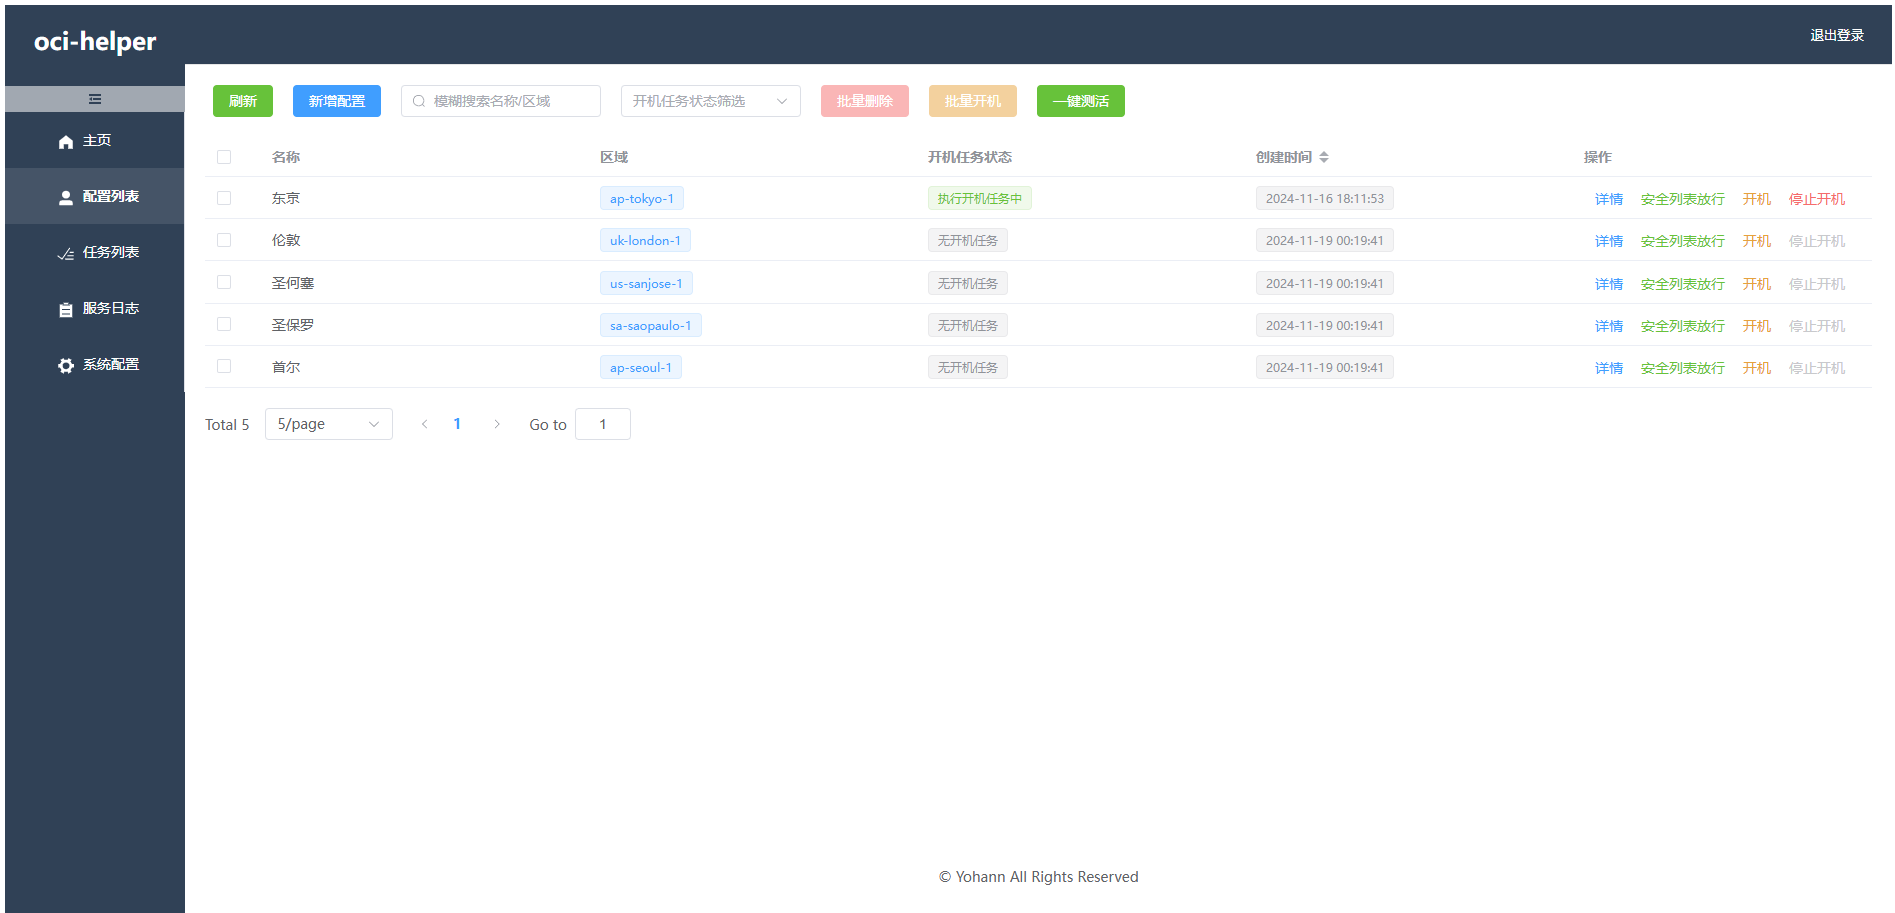
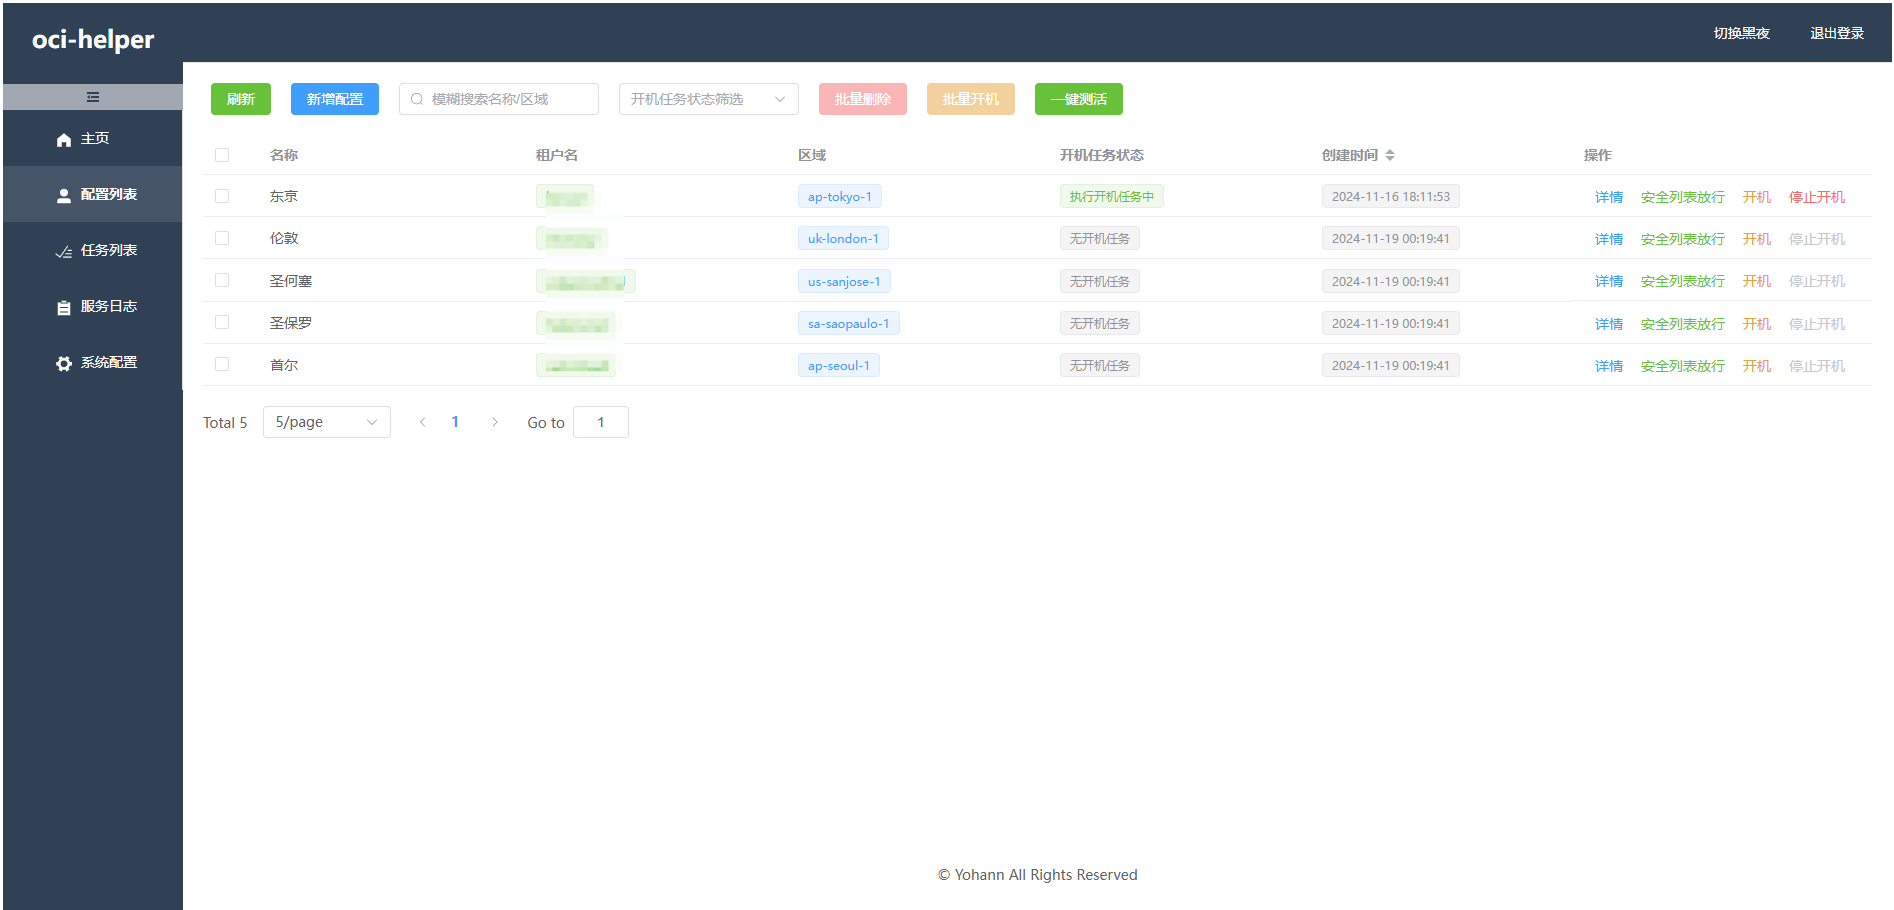
New: Tenant info

diff --git a/README_EN.md b/README_EN.md
@@ -58,7 +58,7 @@ mkdir -p /app/oci-helper/keys && cd /app/oci-helper
 ### 2. Download files
 
 1. Download the latest `application.yml` and `oci-helper.db` files in `Releases` to the `/app/oci-helper` directory, and modify some configurations of `application.yml`.
-2. If you do not use docker deployment, download another `oci-helper-1.1.4.jar` file to the `/app/oci-helper` directory, and run it directly `nohup java -jar oci-helper-1.1.4.jar > /var/log/oci-helper.log &` (the prerequisite is that the environment must have `jre8` or `jdk8`).
+2. If you do not use docker deployment, download another `oci-helper-1.1.5.jar` file to the `/app/oci-helper` directory, and run it directly `nohup java -jar oci-helper-1.1.5.jar > /var/log/oci-helper.log &` (the prerequisite is that the environment must have `jre8` or `jdk8`).
 3. If you update the jar package or docker image later, you need to install sqlite and run the command to update the version number in `sh_oci-helper_install.sh` (solve it yourself).
 
 ### 3. Docker deployment

diff --git a/README.md b/README.md
@@ -57,7 +57,7 @@ mkdir -p /app/oci-helper/keys && cd /app/oci-helper
 ### 2. 下载文件
 
 1. 下载`Releases`中最新的`application.yml`、`oci-helper.db`这两个文件到`/app/oci-helper`目录下，并修改`application.yml`部分配置。
-2. 如不使用 docker 部署则再下载一个`oci-helper-1.1.4.jar`文件到`/app/oci-helper`目录下，直接`nohup java -jar oci-helper-1.1.4.jar > /var/log/oci-helper.log &`运行即可（前提是环境上要有`jre8`或`jdk8`环境）。
+2. 如不使用 docker 部署则再下载一个`oci-helper-1.1.5.jar`文件到`/app/oci-helper`目录下，直接`nohup java -jar oci-helper-1.1.5.jar > /var/log/oci-helper.log &`运行即可（前提是环境上要有`jre8`或`jdk8`环境）。
 3. 后续如果更新jar包或者docker镜像，需要安装sqlite并运行`sh_oci-helper_install.sh`中更新版本号的命令（自行解决）。
 
 ### 3. docker部署
